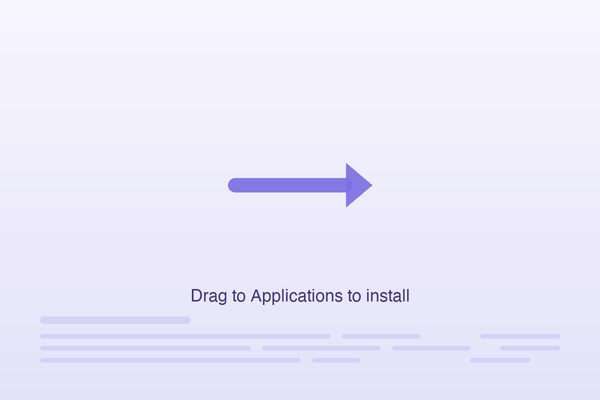
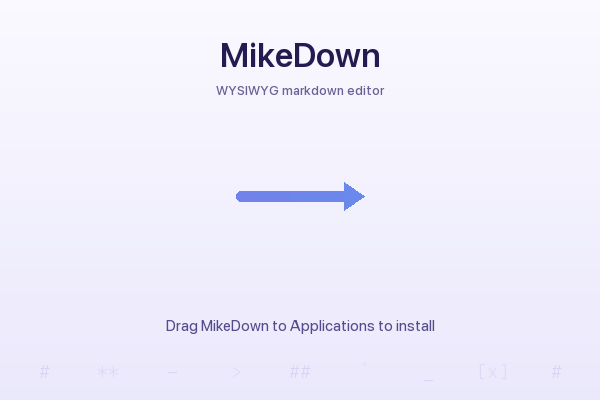
DMG design pass: MikeDown heading, one-piece gradient arrow, markdown glyph backdrop, full art below the title bar

diff --git a/packages/desktop/deploy/assets/dmg/make-background.py b/packages/desktop/deploy/assets/dmg/make-background.py
@@ -1,11 +1,22 @@
 #!/usr/bin/env python3
 """Generate the MikeDown DMG install-window background art.
 
-Same layout as LymeScribe's (600x400 pt window, arrow between two icon slots,
-one instruction line), in MikeDown's palette: the app icon is a deep indigo
-field with a periwinkle "M" and download arrow. The art draws guidance only;
-Finder paints the real app icon (left) and /Applications alias (right) on top
-at the coordinates make-dmg.sh positions them.
+Layout (600x400 pt content area, make-dmg.sh sizes the window so all of it
+shows below the title bar):
+
+    MikeDown                      product heading, deep violet from the icon
+    WYSIWYG markdown editor       small muted subtitle
+    [app]  ──────────▶  [Apps]    Finder paints both icons at the centers below
+    Drag MikeDown to Applications to install
+    #   ##   **   _   -   >   `   [ ]    faint markdown glyph row, a backdrop
+
+Palette comes from the app icon (deep indigo-violet field, periwinkle "M",
+sky-blue download arrow) on a near-white lavender wash, so Finder's black
+icon labels stay high contrast in both light and dark appearance (the art is
+opaque, so Finder's appearance does not change it).
+
+The arrow is drawn as one shape into a mask, then filled with a gradient, so
+the shaft and head never double up where they meet.
 
 Renders at 2x (1200x800) and downscales a copy to 1x. make-dmg.sh fuses the
 pair into a HiDPI TIFF (tiffutil -cathidpicheck) so Finder reads the art as
@@ -15,35 +26,56 @@ Usage:
     python3 make-background.py            # writes background.png + background@2x.png here
     python3 make-background.py --out DIR
 
-Requires Pillow. Deterministic.
+Requires Pillow and macOS system fonts (SF Pro, SF Mono; falls back to
+Helvetica/Menlo). Deterministic.
 """
 
 import argparse
 import os
 from PIL import Image, ImageDraw, ImageFont
 
-BG_TOP      = (247, 246, 254)   # near-white, faint lavender
-BG_BOTTOM   = (228, 226, 248)
-LINE_PALE   = (150, 140, 235)   # text-line watermark (drawn at ~22% alpha)
-TEXT_MUTED  = (66, 58, 120)     # deep indigo, 8:1 on the background
-ARROW       = (124, 112, 226)   # periwinkle from the icon's M, darkened to read on light
+BG_TOP     = (250, 249, 255)   # near-white, faint lavender
+BG_BOTTOM  = (234, 232, 251)
+TITLE      = (36, 28, 80)      # icon field (33,27,64)..(57,30,107), deep violet
+SUBTITLE   = (104, 98, 150)    # muted violet-gray
+CAPTION    = (84, 76, 140)     # indigo, ~6:1 on the background
+ARROW_FROM = (128, 116, 232)   # periwinkle, the icon's "M" darkened to read on light
+ARROW_TO   = (92, 150, 238)    # toward the icon's sky-blue down arrow
+GLYPH      = (112, 100, 210)   # markdown glyph backdrop, drawn at low alpha
 
 W, H = 600, 400
 SCALE = 2
-APP_ICON_CENTER  = (150, 185)   # must match APP_POS in make-dmg.sh
-APPS_ICON_CENTER = (450, 185)   # must match APPS_POS in make-dmg.sh
+APP_ICON_CENTER  = (150, 196)   # must match APP_POS in make-dmg.sh
+APPS_ICON_CENTER = (450, 196)   # must match APPS_POS in make-dmg.sh
+ICON_HALF = 64                  # 128 pt icons (make-dmg.sh --icon-size)
+
+TITLE_TEXT    = "MikeDown"
+SUBTITLE_TEXT = "WYSIWYG markdown editor"
+CAPTION_TEXT  = "Drag MikeDown to Applications to install"
+GLYPHS = ["#", "**", "-", ">", "##", "`", "_", "[x]", "#"]
 
 
-def _font(size):
-    for path in ["/System/Library/Fonts/SFNSDisplay.ttf",
-                 "/System/Library/Fonts/Helvetica.ttc",
-                 "/Library/Fonts/Arial.ttf",
-                 "/System/Library/Fonts/Supplemental/Arial.ttf"]:
-        if os.path.exists(path):
+def _font(size, weight=None, mono=False, opsz=None):
+    paths = (["/System/Library/Fonts/SFNSMono.ttf", "/System/Library/Fonts/Menlo.ttc"] if mono else
+             ["/System/Library/Fonts/SFNS.ttf", "/System/Library/Fonts/Helvetica.ttc",
+              "/Library/Fonts/Arial.ttf"])
+    for path in paths:
+        if not os.path.exists(path):
+            continue
+        try:
+            f = ImageFont.truetype(path, size)
+        except OSError:
+            continue
+        if weight:
             try:
-                return ImageFont.truetype(path, size)
-            except OSError:
-                continue
+                axes = f.get_variation_axes()
+                want = {b"Weight": weight, b"Optical Size": opsz}
+                f.set_variation_by_axes([
+                    max(a["minimum"], min(a["maximum"], want.get(a.get("name")) or a["default"]))
+                    for a in axes])
+            except (OSError, AttributeError, KeyError):
+                pass
+        return f
     return ImageFont.load_default()
 
 
@@ -57,48 +89,72 @@ def _vertical_gradient(w, h, top, bottom):
     return base
 
 
+def _horizontal_gradient(w, h, left, right):
+    g = Image.new("RGB", (w, h))
+    draw = ImageDraw.Draw(g)
+    for x in range(w):
+        t = x / max(1, w - 1)
+        draw.line([(x, 0), (x, h)],
+                  fill=tuple(round(left[i] + (right[i] - left[i]) * t) for i in range(3)))
+    return g
+
+
+def _centered(draw, text, font, y, w, fill, tracking=0):
+    if not tracking:
+        tw = draw.textlength(text, font=font)
+        draw.text(((w - tw) / 2, y), text, font=font, fill=fill)
+        return
+    widths = [draw.textlength(c, font=font) for c in text]
+    x = (w - (sum(widths) + tracking * (len(text) - 1))) / 2
+    for c, cw in zip(text, widths):
+        draw.text((x, y), c, font=font, fill=fill)
+        x += cw + tracking
+
+
 def render(scale=SCALE):
     w, h = W * scale, H * scale
-    img = _vertical_gradient(w, h, BG_TOP, BG_BOTTOM)
-    draw = ImageDraw.Draw(img, "RGBA")
 
     def s(v):
         return round(v * scale)
 
-    # Faint "document lines" watermark along the bottom: markdown-ish rows of
-    # rounded dashes, a heading bar then body lines, echoing the editor.
-    rows = [  # (y, [(x0, x1), ...]) in logical pt; heading row is thicker
-        (320, 7, [(40, 190)]),
-        (336, 4, [(40, 330), (342, 420)]),
-        (348, 4, [(40, 250), (262, 380), (392, 470)]),
-        (360, 4, [(40, 300), (312, 360)]),
-    ]
-    for y, th, segs in rows:
-        for x0, x1 in segs:
-            draw.rounded_rectangle([s(x0), s(y - th / 2), s(x1), s(y + th / 2)],
-                                   radius=s(th / 2), fill=LINE_PALE + (56,))
-    # Mirror a shorter block on the right for balance.
-    for y, th, segs in [(336, 4, [(480, 560)]), (348, 4, [(500, 560)]), (360, 4, [(470, 530)])]:
-        for x0, x1 in segs:
-            draw.rounded_rectangle([s(x0), s(y - th / 2), s(x1), s(y + th / 2)],
-                                   radius=s(th / 2), fill=LINE_PALE + (56,))
+    img = _vertical_gradient(w, h, BG_TOP, BG_BOTTOM)
+    draw = ImageDraw.Draw(img, "RGBA")
 
-    # Center arrow: app slot -> Applications slot.
-    ay = s(APP_ICON_CENTER[1])
-    a_x0 = s(APP_ICON_CENTER[0] + 78)
-    a_x1 = s(APPS_ICON_CENTER[0] - 78)
-    shaft_h = s(7)
-    draw.rounded_rectangle([a_x0, ay - shaft_h, a_x1 - s(20), ay + shaft_h],
-                           radius=shaft_h, fill=ARROW + (235,))
-    head = s(22)
-    draw.polygon([(a_x1, ay), (a_x1 - s(26), ay - head), (a_x1 - s(26), ay + head)],
-                 fill=ARROW + (235,))
+    # Markdown glyph backdrop: one evenly spaced row of syntax marks along the
+    # bottom, faint enough to read as texture, inset from both window edges.
+    gfont = _font(s(18), mono=True)
+    layer = Image.new("RGBA", (w, h), (0, 0, 0, 0))
+    ld = ImageDraw.Draw(layer)
+    gy = s(360)
+    margin = s(44)
+    step = (w - 2 * margin) / (len(GLYPHS) - 1)
+    for i, g in enumerate(GLYPHS):
+        gw = ld.textlength(g, font=gfont)
+        alpha = 40 if i % 2 == 0 else 28
+        ld.text((margin + i * step - gw / 2, gy), g, font=gfont, fill=GLYPH + (alpha,))
+    img = Image.alpha_composite(img.convert("RGBA"), layer).convert("RGB")
+    draw = ImageDraw.Draw(img, "RGBA")
 
-    # Instruction text, above the watermark so it stays legible.
-    font = _font(s(17))
-    instr = "Drag to Applications to install"
-    iw = draw.textlength(instr, font=font)
-    draw.text(((w - iw) / 2, s(288)), instr, font=font, fill=TEXT_MUTED)
+    # Heading + subtitle.
+    _centered(draw, TITLE_TEXT, _font(s(34), weight=580, opsz=34), s(34), w, TITLE)
+    _centered(draw, SUBTITLE_TEXT, _font(s(13), weight=500), s(82), w, SUBTITLE)
+
+    # Arrow from the app slot to the Applications slot, as a single shape.
+    cy = s(APP_ICON_CENTER[1])
+    x0 = s(APP_ICON_CENTER[0] + ICON_HALF + 22)
+    x1 = s(APPS_ICON_CENTER[0] - ICON_HALF - 22)
+    shaft = s(5)          # half-thickness
+    head_len, head_half = s(20), s(14)
+    mask = Image.new("L", (w, h), 0)
+    md = ImageDraw.Draw(mask)
+    md.rounded_rectangle([x0, cy - shaft, x1 - head_len + s(2), cy + shaft], radius=shaft, fill=255)
+    md.polygon([(x1, cy), (x1 - head_len, cy - head_half), (x1 - head_len, cy + head_half)], fill=255)
+    grad = _horizontal_gradient(w, h, ARROW_FROM, ARROW_TO)
+    img.paste(grad, (0, 0), mask)
+
+    # Instruction line.
+    draw = ImageDraw.Draw(img, "RGBA")
+    _centered(draw, CAPTION_TEXT, _font(s(15), weight=440), s(316), w, CAPTION)
     return img
 
 
@@ -108,7 +164,7 @@ def main():
     args = ap.parse_args()
     os.makedirs(args.out, exist_ok=True)
     img2x = render(SCALE)
-    img1x = img2x.resize((W, H), Image.LANCZOS)
+    img1x = render(1)   # native 1x render: crisper text than a downscale
     for name, im in (("background.png", img1x), ("background@2x.png", img2x)):
         p = os.path.join(args.out, name)
         im.save(p)

diff --git a/packages/desktop/deploy/README.md b/packages/desktop/deploy/README.md
@@ -22,18 +22,25 @@ the checklist.
 ## Styled DMG
 
 `make-dmg.sh` (adapted from LymeScribe's) lays out the install window: 600x400
-window, 128 px icons, app at 150,185 and the Applications link at 450,185,
-hidden toolbar and sidebar, brand background. Finder does the layout through
-AppleScript, so it needs a logged-in GUI session (a Finder window flashes open
-for a few seconds) and cannot run over bare SSH. The layout runs under a
-temporary volume name and is renamed to `MikeDown`, so a same-named volume that
-is already mounted is left alone. No volume icon is set (LymeScribe sets none).
+pt of art below the title bar (the script adds the 28 pt title bar to the window
+bounds so none of the art is cut off), 128 px icons, app at 150,196 and the
+Applications link at 450,196, hidden toolbar and sidebar. Finder does the layout
+through AppleScript, so it needs a logged-in GUI session (a Finder window
+flashes open for a few seconds) and cannot run over bare SSH. The layout runs
+under a temporary volume name and is renamed to `MikeDown`, so a same-named
+volume that is already mounted is left alone. No volume icon is set (LymeScribe
+sets none).
 
-Background art lives in `assets/dmg/`: `make-background.py` (Pillow, run
-`python3 assets/dmg/make-background.py`) writes `background.png` (1x) and
-`background@2x.png`; `make-dmg.sh` fuses them into a HiDPI TIFF. If you move the
-icons, change `APP_POS`/`APPS_POS` in `make-dmg.sh` and the `*_ICON_CENTER`
-constants in the script together.
+Background art lives in `assets/dmg/`: `make-background.py` (Pillow plus the
+macOS SF Pro and SF Mono system fonts, run
+`python3 assets/dmg/make-background.py`) writes `background.png` (1x, rendered
+natively) and `background@2x.png`; `make-dmg.sh` fuses them into a HiDPI TIFF.
+The art is a "MikeDown" heading and subtitle, a one-piece gradient arrow in the
+icon's periwinkle-to-sky colors, the instruction line, and a faint row of
+markdown glyphs along the bottom. It is opaque and light, so Finder's black icon
+labels read the same in light and dark appearance. If you move the icons,
+change `APP_POS`/`APPS_POS` in `make-dmg.sh` and the `*_ICON_CENTER` constants
+in the script together.
 
 To iterate on the look without the 15 minute universal build, restyle an
 already stapled app (still signs, notarizes and staples the DMG):
